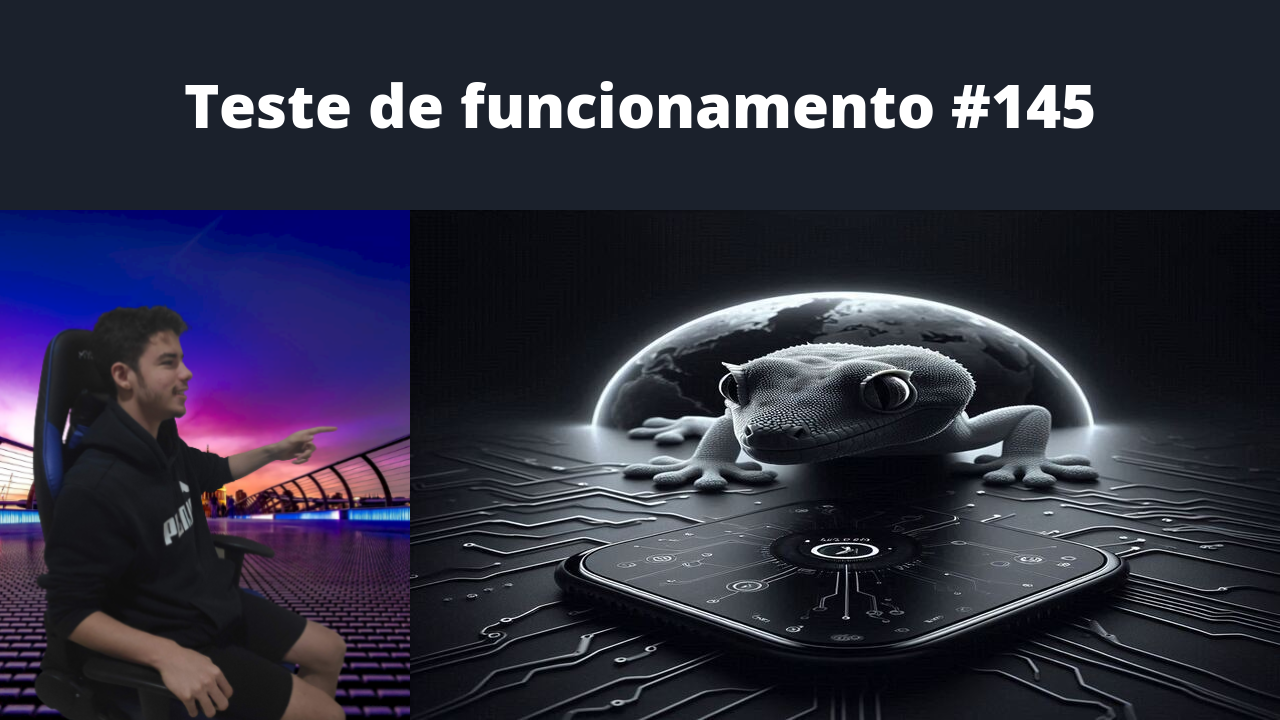
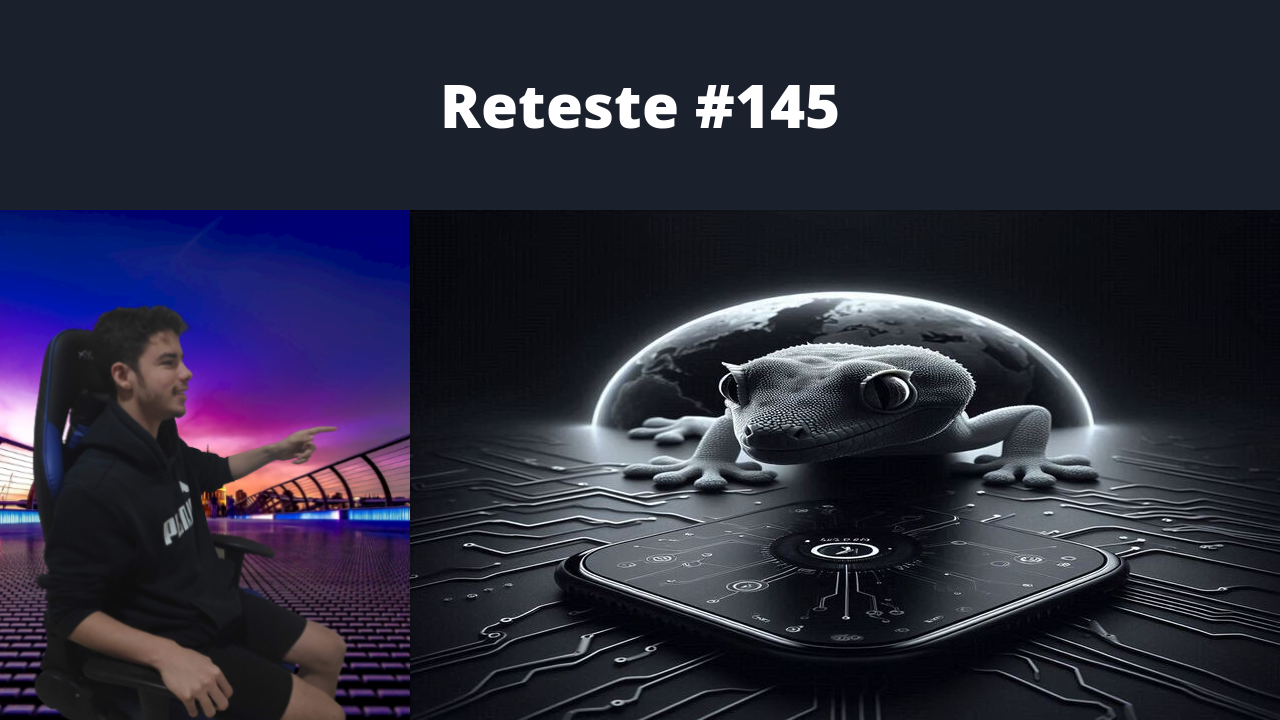
chore: add title chore: run thumb genm

Changed region(s): [[0.125, 0.0917, 0.875, 0.1833]]

diff --git a/out/titles/thumbGen.md b/out/titles/thumbGen.md
@@ -286,3 +286,9 @@
 [video](https://youtu.be/q8NmjxNeQlw)
 ## Fechando duas issues #144
 [video](https://youtu.be/kZCbKxIW6Pk)
+## Reteste #145
+[video](https://youtu.be/cXG6UuqM4AY)
+## Adicionar serie nova #146
+[video](https://youtu.be/24uE_KPLMgM)
+## Resolver erro de artefato #147
+[video](https://youtu.be/h4gw_fQWXrg)
